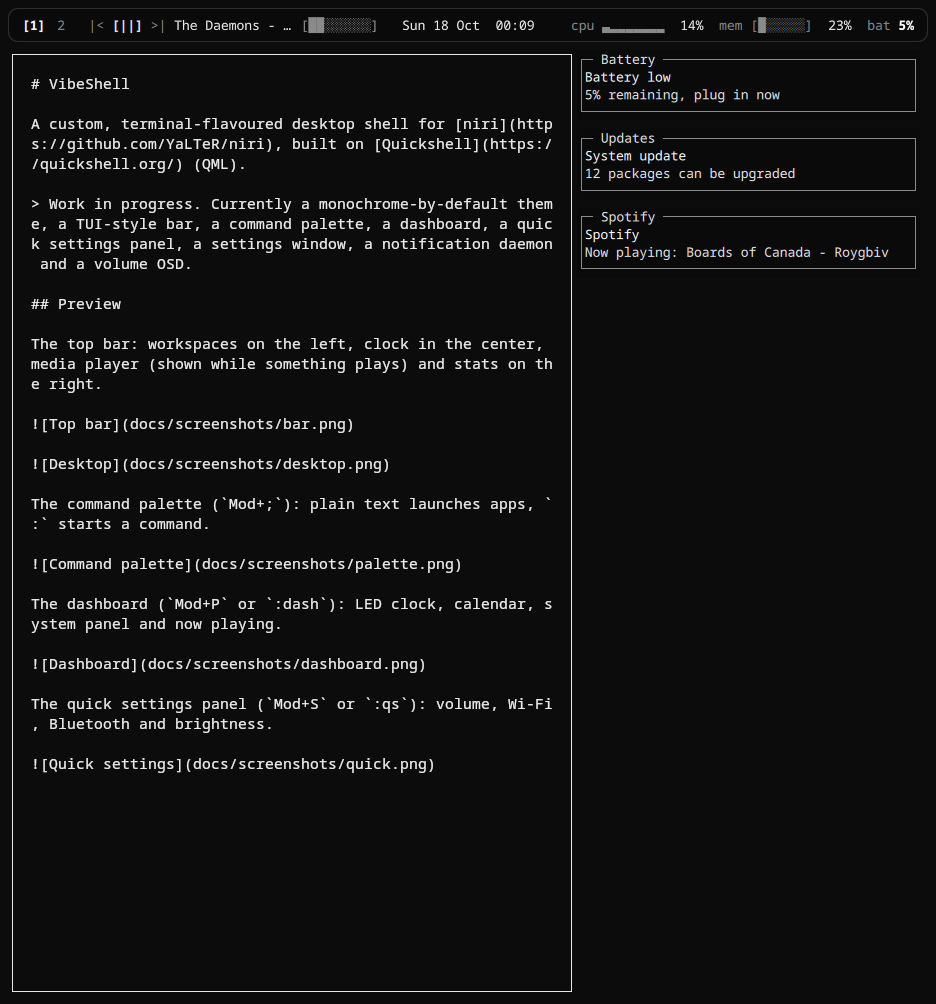
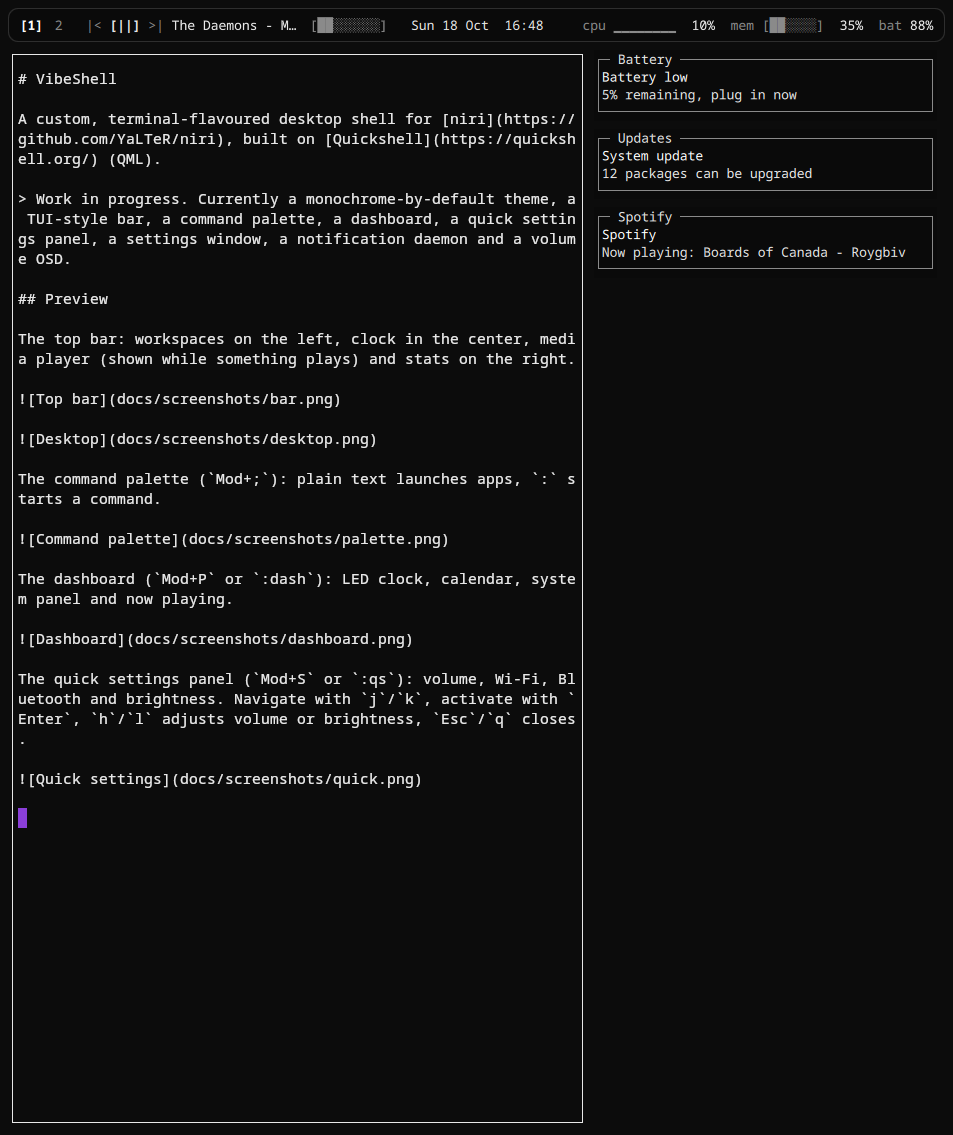
README: document scale, commands, wallpaper, SDDM and lid lock
Add the installer flag table, Super-tap/keyd section, tiling presets,
wallpaper, UI scale and animation toggle, touchpad gestures, the new
palette commands and settings keys, and refresh the screenshots after
the UI changes.

diff --git a/README.md b/README.md
@@ -20,7 +20,7 @@ The dashboard (`Mod+P` or `:dash`): LED clock, calendar, system panel and now pl
 
 ![Dashboard](docs/screenshots/dashboard.png)
 
-The quick settings panel (`Mod+S` or `:qs`): volume, Wi-Fi, Bluetooth and brightness.
+The quick settings panel (`Mod+S` or `:qs`): volume, Wi-Fi, Bluetooth and brightness. Navigate with `j`/`k`, activate with `Enter`, `h`/`l` adjusts volume or brightness, `Esc`/`q` closes.
 
 ![Quick settings](docs/screenshots/quick.png)
 
@@ -35,6 +35,10 @@ Notifications: VibeShell is the notification daemon, and popups are TUI cards wi
 ## Lock screen & idle
 
 - Lock: `Mod+Alt+L`, `:lock`, or `quickshell ipc -p <shell> call lock lock`
+  (if your niri config already binds `Mod+Alt+L` elsewhere, the installer's snippet
+  skips its own bind and that one stays in charge)
+- Lid close: the shell watches `/proc/acpi/button/lid/*/state` and locks as soon as the
+  lid is closed (works on any laptop; a no-op on desktops)
 - Idle: auto-lock after `idle.lock` seconds, power off monitors after `idle.screenOff` seconds (set to 0 to disable)
 - PAM: uses `lock.service` (defaults to `login`); set `VIBESHELL_PAM_DIR` to test custom PAM configs
 - Note: while locked, niri blocks screen capture
@@ -52,14 +56,28 @@ palette change. Files land in `~/.config/vibeshell/app-themes/`:
 
 | App | File | How it is wired |
 |---|---|---|
-| kitty | `kitty/kitty-theme.conf` | `include` line in `kitty.conf` |
+| kitty | `kitty/kitty-theme.conf` | `include` line in `kitty.conf` (a full config: font, padding, cursor, scrollback and colours) |
 | GTK 3 / 4 | `gtk/gtk.css` | `@import` in `gtk-3.0/gtk.css` and `gtk-4.0/gtk.css` |
 | VS Code | `vscode/` | symlink into `~/.vscode/extensions/vibeshell-theme` |
 | spicetify | `spicetify/` | symlink into `~/.config/spicetify/Themes/VibeShell` |
+| SDDM | `sddm/theme.conf` | `install.sh --sddm` copies the theme into `/usr/share/sddm/themes/vibeshell` |
 
 Run `install.sh --apps` to add the include lines and symlinks (each file is backed
 up first). Toggle per-app generation in `settings.json` under `theming`
-(`kitty`, `gtk`, `vscode`, `spicetify`), or regenerate manually with `:theming`.
+(`kitty`, `gtk`, `vscode`, `spicetify`, `sddm`, `matugen`), or regenerate manually
+with `:theming`.
+
+With `theming.matugen` enabled (the default), every palette change also pushes the
+accent into [matugen](https://github.com/InioX/matugen) (`matugen color hex <accent>`),
+so anything you have matugen generating from follows the shell too. Run it by hand
+with `:matugen`.
+
+### SDDM login theme
+
+`install.sh --sddm` installs a terminal-styled SDDM theme (`sddm/vibeshell/`) and
+selects it in `/etc/sddm.conf.d/vibeshell.conf`. The colours come from the live
+`app-themes/sddm/theme.conf` the shell generates, so the login screen matches the
+palette.
 
 ## Install (Arch / CachyOS)
 
@@ -82,7 +100,77 @@ The installer asks before running `sudo pacman`, backs up every file it overwrit
 writes `~/.config/niri/vibeshell.kdl` and tells you which `include` line to add.
 Add `--apps` to also wire the app themes (see [App theming](#app-theming)).
 
+The full flag list:
+
+| Flag | What it does |
+|---|---|
+| `--niri` | add `include "vibeshell.kdl"` to your `config.kdl` (backed up first) |
+| `--apps` | wire kitty/GTK includes and the VS Code/spicetify symlinks |
+| `--sddm` | install the VibeShell SDDM theme and select it |
+| `--super-tap` | install keyd so a lone Super key opens the palette (see below) |
+| `--no-plymouth` | remove plymouth and the silent boot (`quiet`/`splash`, `loglevel=6`) |
+| `--no-packages` | skip the `pacman` step |
+| `-y`, `--yes` | never ask for confirmation |
+
+When writing `vibeshell.kdl`, the installer skips any bind whose key is already
+bound elsewhere in your niri config (dms, `config.kdl`, ...), because niri refuses
+to load a config with duplicate keybinds.
+
 Try it without restarting niri: `quickshell -p ~/.local/share/vibeshell/shell`
+
+### Open the palette with a lone Super key
+
+niri cannot bind a bare modifier (`Mod` on its own) — a `Mod+X` bind fires for every
+`Mod+X`, and there is no "prefix only" bind. So `install.sh --super-tap` uses
+[keyd](https://github.com/rvaiya/keyd) to turn a lone left Super into `F15`:
+
+```
+leftmeta = overload(meta, f15)
+```
+
+Holding Super still acts as `Mod` (so `Mod+Return` etc. keep working); tapping it
+sends `F15`, which the niri snippet binds to the palette. `Mod+;` stays bound as a
+fallback. The rule lives in `/etc/keyd/default.conf`.
+
+## Tiling presets
+
+The command palette exposes niri's actions:
+
+| Command | What it does |
+|---|---|
+| `:tile <preset>` | `wide` (70%), `narrow` (30%), `mono` (100%), `normal` (50%), `center`, `float`, `max` |
+| `:niri <action> [args]` | run any niri action, e.g. `:niri consume-or-expel-window-right`, `:niri focus-monitor-left` |
+
+So `:niri <action>` is a full escape hatch to niri's whole action list.
+
+## Wallpaper
+
+Install `swaybg` (or `swww`) and the shell manages the wallpaper for you:
+
+| Command | What it does |
+|---|---|
+| `:wallpaper` / `:wallpaper next` | next image in `wallpaper.dir` |
+| `:wallpaper prev` | previous image |
+| `:wallpaper <path>` | set a specific image |
+
+The current image is saved to `wallpaper.path` and restored on startup. `wallpaper.dir`
+(default `~/Pictures/Wallpapers`) is scanned for `.jpg/.jpeg/.png/.webp`.
+
+## Touchpad gestures
+
+Workspace switching and horizontal scrolling are handled by niri itself, not the
+shell: three-finger vertical swipes switch workspaces and three-finger horizontal
+swipes move the view between windows (four-finger vertical opens the overview). They
+are on by default on niri 25.05+, so there is nothing to configure in VibeShell.
+
+## UI scale & animations
+
+- `ui.scale` (default `1.0`) multiplies the font **and** every pixel constant (bar
+  height, gaps, radius, borders), so the whole shell — not just text — scales. Set it
+  in the settings window, with `:scale 1.25`, or `:set ui.scale 1.25`.
+- `anim.enabled` (default `true`) toggles the shell's animations (blinking cursors,
+  the equalizer). Toggle with `:anim` or `:set anim.enabled false`.
+
 
 ## Command palette
 
@@ -101,6 +189,12 @@ Press `Mod+;` (bound by the installer's niri snippet). Type to search applicatio
 | `:lock` | lock the screen |
 | `:theming` | regenerate app theme files under `app-themes/` |
 | `:theme [name\|next]` | switch colour palette (`next` cycles) |
+| `:wallpaper [next\|prev\|<path>]` | change the wallpaper |
+| `:tile <preset>` | tiling preset: `wide`, `narrow`, `mono`, `normal`, `center`, `float`, `max` |
+| `:niri <action> [args]` | run any niri action |
+| `:anim` | toggle shell animations |
+| `:matugen` | sync app colours from the accent via matugen |
+| `:scale <n>` | set the UI scale, e.g. `:scale 1.25` |
 
 `Enter` runs, `Tab` completes, `Up`/`Down` (or `Ctrl+P`/`Ctrl+N`) move, `Esc` closes.
 It can also be driven from a script: `quickshell ipc -p <shell dir> call palette open ":"`
@@ -113,15 +207,22 @@ User settings live in `~/.config/vibeshell/settings.json` and override
 
 The settings window (`Mod+Shift+S`, `:settings`, or `... call settings toggle`)
 lists every key below and edits it in place: `j`/`k` move, `h`/`l` (or arrows)
-change values and cycle the palette, `Enter`/`e` types a value, `Esc`/`q` closes.
+change values and cycle the palette, `g`/`G` jump to the top/bottom, `Enter`/`e`
+types a value, `Esc`/`q` closes.
 
 ```json
 {
   "theme": { "palette": "monochrome" },
   "font": { "family": "JetBrainsMono Nerd Font", "size": 13 },
+  "ui": { "scale": 1.0 },
+  "anim": { "enabled": true },
+  "wallpaper": { "path": "", "dir": "~/Pictures/Wallpapers" },
   "apps": { "terminal": "kitty" },
+  "theming": { "kitty": true, "gtk": true, "vscode": true, "spicetify": true, "sddm": true, "matugen": true },
   "stats": { "interval": 2000 },
   "notify": { "timeout": 5, "max": 4 },
+  "lock": { "service": "login" },
+  "idle": { "lock": 300, "screenOff": 600 },
   "bar": { "height": 34, "gap": 8, "radius": 10, "borderWidth": 1 }
 }
 ```
@@ -161,9 +262,10 @@ shell/       Quickshell config (entry point: shell/shell.qml)
   osd/       On-screen display (volume)
   palette/   Command palette (UI and command backend)
   components/ Reusable pieces: TuiFrame, Spark, Gauge, Txt, BigClock, Eq
-  services/  Singletons: niri, media, audio, network, bluetooth, brightness, power, stats, notifications
+  services/  Singletons: niri, media, audio, network, bluetooth, brightness, power, stats, notifications, wallpaper, app theming
   palettes/  Color palettes
   defaults/  Shipped default settings
+sddm/        SDDM login theme (installed with --sddm)
 dev/         Nested niri sandbox and screenshot generator
 docs/        Screenshots used in this README
 ```
@@ -183,3 +285,10 @@ docs/        Screenshots used in this README
 - [x] Lock screen + idle
 - [x] Greeter
 - [x] App theming (kitty, GTK, VS Code, ...)
+- [x] SDDM login theme (`--sddm`)
+- [x] Wallpaper control (`:wallpaper`, swaybg/swww)
+- [x] Tiling presets and `:niri` action passthrough
+- [x] Global UI scale (`ui.scale`) and animation toggle (`:anim`)
+- [x] Super-tap palette via keyd (`--super-tap`)
+- [x] Lock on lid close
+- [x] Optional matugen colour sync (`theming.matugen`)
